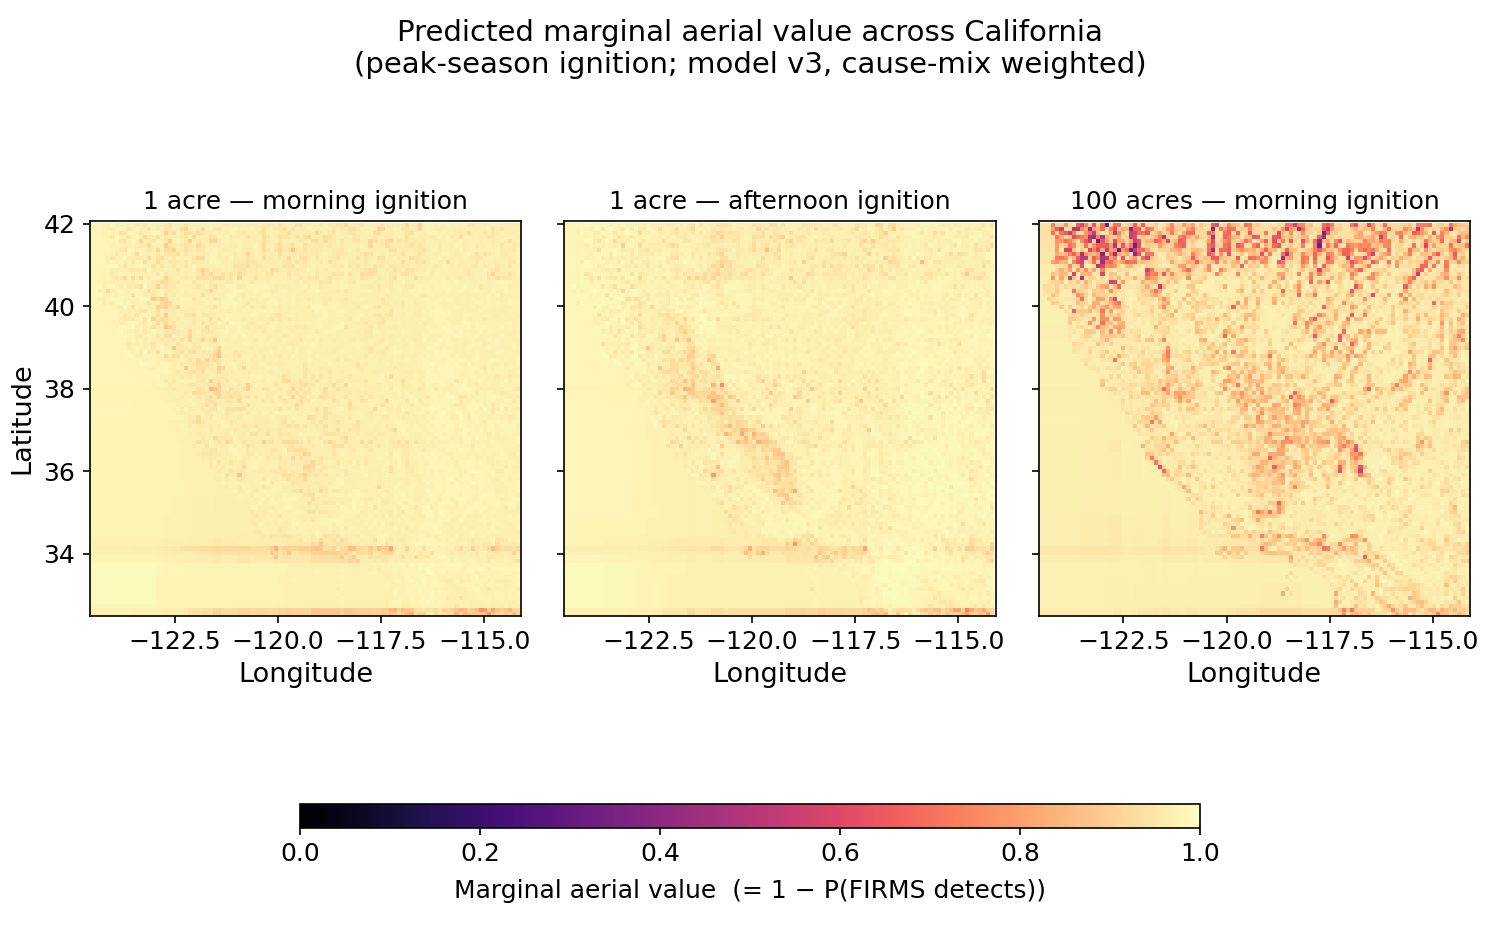
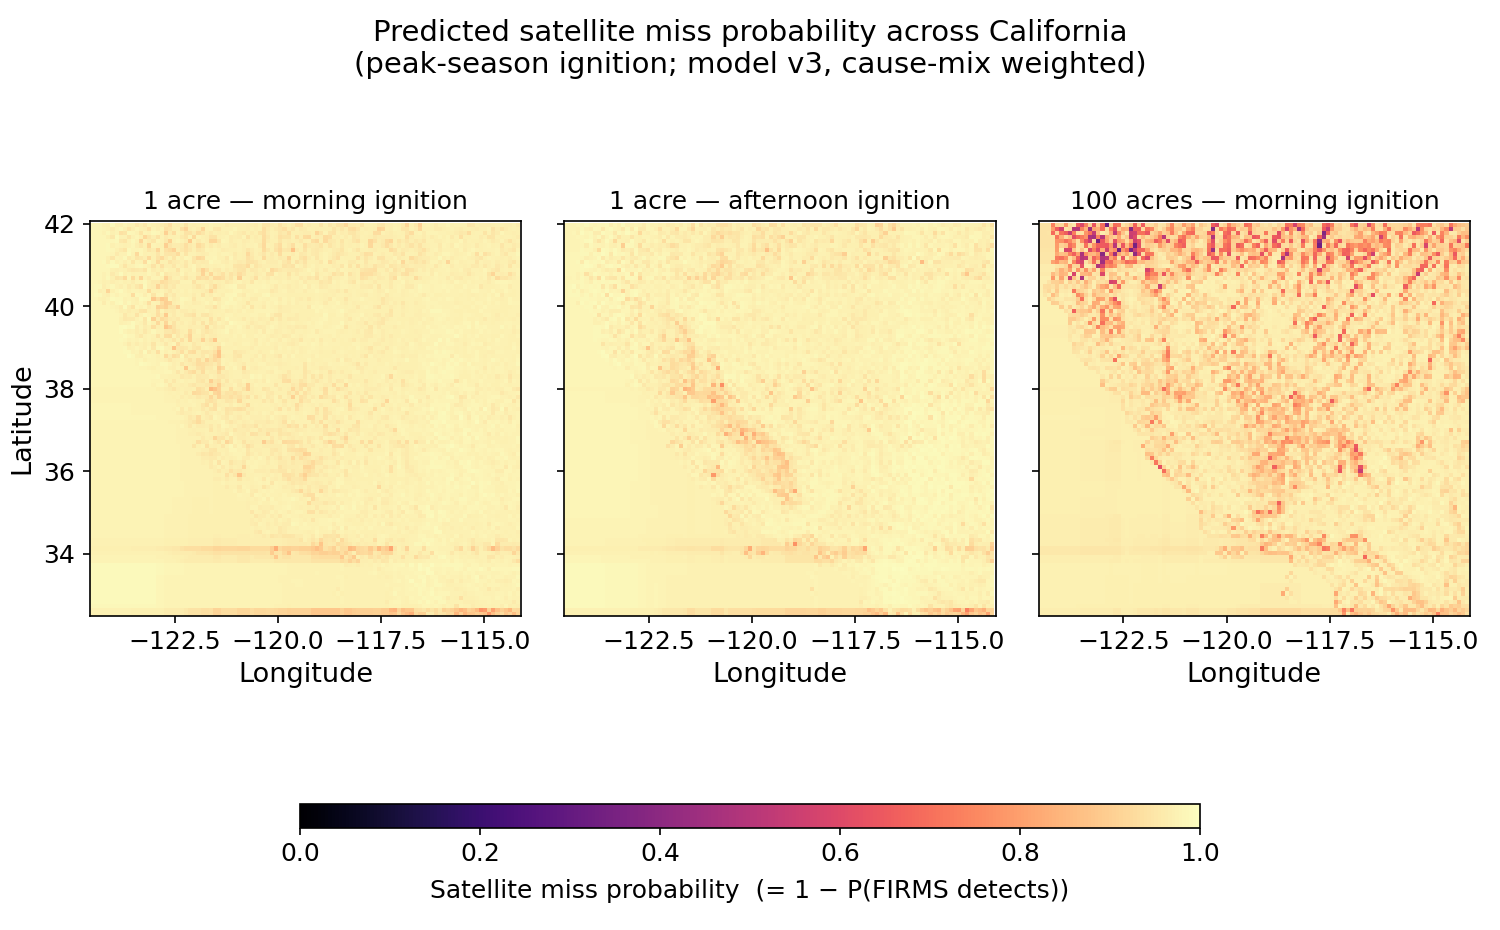
Strip drone/aerial framing throughout — measure the gap, don't pick the fill
Reviewer caught that the memo, README, repo description, and gap-
surface labels were all implicitly arguing FOR drones as the
solution to the satellite detection gap, when the actual analysis
only measures that the gap exists. We never compared drones to
ALERTCalifornia cameras, mountaintop lookouts, manned patrol
aircraft, or faster public-reporting routing — all of which fill
the same gap. Asserting "drones close the gap" without that
comparison was over-claiming.

Changes:

- memo title dropped "where drones add the most marginal value"
- "Decision impact — loiter vs. suppression" section replaced with
  "What the gap implies" — same evidence, no product framing
- "marginal aerial value" colorbar/caption renamed to "satellite
  miss probability" everywhere (memo, plots.py, figure label)
- new honest-limitations bullet: "the memo measures the gap; it
  does not pick the fill" with the explicit list of alternatives
- "loiter-aircraft pitch" / "founder reading Figure 8 to position
  aircraft" / "aerial product" phrasings replaced with neutral
  detection-infrastructure language
- README headline question reframed; new caveat bullet about not
  comparing fill options
- whats_next.txt: NOAA-20 question now frames whether satellite-
  alone can be made adequate, not "does it erode the aerial case"
- GitHub repo description updated via gh CLI

Drone framing was hand-waving. The data supports "the gap is real
and large"; the data does not support "drones are the answer." Now
[…]

Changed region(s): [[0.2453, 0.0, 0.7667, 0.0624], [0.276, 0.9355, 0.7053, 0.9667]]

diff --git a/src/plots.py b/src/plots.py
@@ -172,8 +172,8 @@ def fig_gap_surface():
             ax.set_ylabel("Latitude")
 
     cbar = fig.colorbar(im, ax=axes.ravel().tolist(), shrink=0.85,
-                        label="Marginal aerial value  (= 1 - P(FIRMS detects))")
-    fig.suptitle("Where do drones add the most marginal detection value?  (California)")
+                        label="Satellite miss probability  (= 1 - P(FIRMS detects))")
+    fig.suptitle("Where is the satellite detection layer least informative?  (California)")
     out = FIG_DIR / "gap_surface.png"
     fig.savefig(out, dpi=150, bbox_inches="tight")
     plt.close(fig)
@@ -357,7 +357,7 @@ def fig_gap_surface_v2():
         if ax is axes[0]:
             ax.set_ylabel("Latitude")
 
-    fig.suptitle("Predicted marginal aerial value across California\n"
+    fig.suptitle("Predicted satellite miss probability across California\n"
                  f"(peak-season ignition; {title_suffix})", fontsize=14)
 
     # Reserve a horizontal strip at the bottom for the colorbar; leave enough
@@ -366,7 +366,7 @@ def fig_gap_surface_v2():
     fig.subplots_adjust(left=0.06, right=0.98, top=0.88, bottom=0.22, wspace=0.10)
     cbar_ax = fig.add_axes([0.20, 0.11, 0.60, 0.025])  # [left, bottom, width, height]
     cbar = fig.colorbar(im, cax=cbar_ax, orientation="horizontal")
-    cbar.set_label("Marginal aerial value  (= 1 − P(FIRMS detects))", fontsize=12, labelpad=6)
+    cbar.set_label("Satellite miss probability  (= 1 − P(FIRMS detects))", fontsize=12, labelpad=6)
 
     out = FIG_DIR / "gap_surface.png"
     fig.savefig(out, dpi=150)

diff --git a/memo/firms_findings.md b/memo/firms_findings.md
@@ -1,5 +1,5 @@
 ---
-title: "Where satellite wildfire detection fails, and where drones add the most marginal value"
+title: "Where satellite wildfire detection fails: a gap analysis"
 subtitle: "FIRMS / VIIRS detection-gap analysis, California, Jun--Nov 2020"
 author: ""
 date: ""
@@ -7,7 +7,7 @@ date: ""
 
 # Headline finding
 
-A California wildfire that gets contained under 10 acres has a **\~97% probability of never producing a coincident FIRMS detection**. For a drone product that closes the resulting gap, the conflation below is fine; for a "satellite detection fails" narrative, it is over-claiming and needs unpacking.
+A California wildfire that gets contained under 10 acres has a **\~97% probability of never producing a coincident FIRMS detection**. That number is the union of two distinct failure modes — see the unpacking below — both of which a reader needs to keep separate before drawing any operational inference.
 
 | Fire size at containment | n | FIRMS detection rate |
 |---|---:|---:|
@@ -22,27 +22,25 @@ Ground truth: FPA-FOD v6 (Short 2022, RDS-2013-0009.6) restricted to California,
 1. *Sensor miss.* VIIRS overpassed the fire while it was burning and the thermal signal was too weak or too brief to fire a pixel.
 2. *Temporal sampling miss.* VIIRS did not overpass the fire while it was burning. Suomi-NPP is a single sun-synchronous satellite (one day + one night equator crossing); at California latitudes a given point gets typically 1--2 distinct overpasses per 24 h. A 90-minute grass fire between overpasses produces no detection regardless of sensor sensitivity.
 
-Both fail the same way from a "did the satellite alert us?" standpoint, and a loitering drone closes both. But the framing matters: the headline is *not* "VIIRS sensors are bad at small fires" — it is "satellites do not alert on small CA fires, for some combination of sensor sensitivity and overpass timing." Separating those would require joining per-fire ignition--containment windows to VIIRS overpass timetables, which is in the next-steps queue.
+Both fail the same way from a "did the satellite alert us?" standpoint. The framing matters: the headline is *not* "VIIRS sensors are bad at small fires" — it is "satellites do not alert on small CA fires, for some combination of sensor sensitivity and overpass timing." Separating those would require joining per-fire ignition--containment windows to VIIRS overpass timetables, which is in the next-steps queue. **What closes the gap — ground-based camera networks, lookouts, faster public reporting, aerial patrol, or some combination — is an open question this analysis does not try to answer.** It quantifies the gap; it does not pick the fill.
 
 **A second caveat that compounds the first.** Fire size at containment is an *outcome*, and detection is a predictor of that outcome — fires that get detected get suppressed faster and stay smaller. So "small fires get missed" and "missed fires stay small" are partly the same arrow, viewed from two sides. The 97% measurement is still correct; the causal phrasing "FIRMS misses *because* fires are small" is not fully defensible from this data alone.
 
 ![Hit rate by NWCG fire-size class. Bars are the share of FPA-FOD records in each bucket for which any FIRMS pixel fell within 3 km / +1 day of the discovery point. Note the buckets here are the standard 9-class NWCG schema, not the 3-bucket schema in the headline table above; the headline's "<10 acres" pools the leftmost three bars (3% / 3% / 6%, weighted) to recover its 3.2% figure.](../figures/hit_rate_by_size.png){ width=100% }
 
-# Decision impact
+# What the gap implies
 
-The question has the same answer for both plausible product directions:
+Two operational implications worth stating plainly, neither of which requires a specific product framing:
 
-- **Loiter / early detection.** Marginal value of a drone over a square kilometer is approximately the satellite-miss probability at that location:
+- **The small-fire detection layer cannot be satellite-only.** FIRMS silence cannot be interpreted as "no fire here" — it is just silence — and given the 97% non-detection rate for small fires, treating it as a real all-clear signal has an unacceptable miss rate at the size of fire that's still small enough to stop.
 
-    $$\text{marginal aerial value}(x) \;=\; 1 - P\!\left(\text{FIRMS detects} \mid x\right).$$
+- **The spatial structure of where the gap is largest is a planning input, not a decision input.** The same per-cell miss probability that drives the model's prediction gives, in aggregate, a map of where the satellite layer is least informative. Useful as a priority signal for any kind of ground- or air-based detection layer; not useful as a basis for any specific basing or coverage decision (see the spatial-replication caveats below).
 
-    The gap surface (Figure 8) is a first-pass priority map for where to base or patrol assets.
+Both rest on a calibrated estimate of the satellite miss probability,
 
-- **Active suppression.** Suppression needs a *trustworthy* ignition trigger. FIRMS does not emit an all-clear signal — it emits silence. But silence is exactly what a triggering pipeline would have to interpret as "no fire here." Given that 97% of CA small fires produce no FIRMS pixel, treating FIRMS silence as evidence of no fire has a ~97% miss rate at the small-fire end. The same gap surface is the surface over which a confirmatory aerial layer must operate.
+$$P_{\text{miss}}(x) \;=\; 1 - P\!\left(\text{FIRMS detects fire} \,\big|\, \text{size, location, season, time-of-day}\right),$$
 
-In both cases the foundation is identical: a calibrated estimate of the satellite miss probability,
-
-$$P_{\text{miss}}(x) \;=\; 1 - P\!\left(\text{FIRMS detects fire} \,\big|\, \text{size, location, season, time-of-day}\right).$$
+which the modeling section quantifies. This memo does not compare the actual options for closing the gap (ground-based camera networks like ALERTCalifornia, mountaintop lookouts, manned patrol aircraft, autonomous loitering platforms, faster public-reporting routing). All of those are filling a gap that this analysis only *measures*.
 
 # Methodology robustness
 
@@ -99,7 +97,7 @@ Of the 110 measurable perimeters, **68 anchor to CAL FIRE's `Started` timestamp*
 
 For the size/latency relationship *inside the catchable subset*, latency increases slightly with perimeter size (median 9 h for 10--100 ac → 21 h for 10k+ ac, pooled). The expected dynamic: a fire that ends at 10k acres started as a sub-VIIRS-detection-threshold ignition and only crossed the detection threshold after substantial growth.
 
-**Implication for a loiter-aircraft pitch:** lean on the 97% non-detection figure, not the 7 h figure. 7 h sounds almost tolerable on a quick read and undersells the case; the 97% is the actual operational gap a drone closes.
+**Which number to quote.** The honest number for "how big is the small-fire detection gap" is the 97% non-detection figure, not the 7 h figure. 7 h sounds almost tolerable on a quick read and dramatically undersells the size of the gap, because it conditions on the easiest sub-population. The 97% is the gap any non-satellite detection layer would actually be addressing.
 
 # Swath-edge geometry --- pixel size matters
 
@@ -114,7 +112,7 @@ We split FIRMS into nadir / mid / edge thirds by pixel area (33rd and 66th perce
 - **Big fires (≥ 1k ac):** edge pixels have a *higher* hit rate (1k--10k: 47% nadir vs **61% edge**; 10k+: 76% vs **81%**). A larger pixel covers more area, so any given fire is more likely to fall under one.
 - **Small fires ($<$ 10 ac):** edge pixels have a *lower* hit rate (1% vs 2%). The same physics that helps for big fires hurts here: larger pixels have a higher per-pixel detection threshold.
 
-This is the textbook detection-vs-resolution trade-off, visible in the data without any model. For an aerial product, it implies that nadir-only filtering *tightens* the FIRMS "no" signal but throws away ~70% of detections; for small-fire alerting, ignoring edge pixels is the right call because they contribute almost nothing.
+This is the textbook detection-vs-resolution trade-off, visible in the data without any model. For any downstream system that treats FIRMS as input, nadir-only filtering *tightens* the FIRMS "no" signal but throws away ~70% of detections; for small-fire alerting, ignoring edge pixels is the right call because they contribute almost nothing.
 
 # Modeling the gap
 
@@ -170,13 +168,13 @@ on a 0.1° latitude/longitude grid covering California, where $x$ is the cell's 
 
 A note on $\hat{P}$: the predicted-probability function plotted here is v3 (the most feature-complete model — terrain + fuel + everything v1 has), not v1. This is intentional and is *not* a contradiction of the v1-for-deployment recommendation in the modeling section. The map is a *visualization* of where the model expects the gap to be largest under a hypothetical 1-acre fire; visualizing requires the richest set of spatial inputs available, even if those inputs don't move the held-out metric. For an actual deployed *alerting threshold* the calibration in the 10–20% probability band matters more than gap-surface texture, and v1 is the right choice there. The two recommendations are about two different operational uses.
 
-![Predicted marginal aerial value (1 -- P(FIRMS detects)) across CA on a 0.1$^\circ$ grid, three scenarios. Predictions are mixed over the 2020 CA cause distribution (rather than conditioned on a single cause). Light = high gap (drones add value); dark = low gap (FIRMS likely catches it).](../figures/gap_surface.png){ width=100% }
+![Predicted satellite miss probability (1 -- P(FIRMS detects)) across CA on a 0.1$^\circ$ grid, three scenarios. Predictions are mixed over the 2020 CA cause distribution (rather than conditioned on a single cause). Light = high miss probability (satellite layer least informative); dark = low miss probability (FIRMS likely catches it).](../figures/gap_surface.png){ width=100% }
 
 The 1-acre map is uniformly high (median 0.98) --- VIIRS rarely catches small fires anywhere. **The lever is detecting fires that haven't grown yet.** The morning vs.\ afternoon 1-acre panels are nearly identical (median gaps 0.97 vs.\ 0.98); the model finds no operationally meaningful time-of-day effect at this size, so both panels are kept here only to show that the headline is not a single-scenario artifact.
 
-For 100-acre fires the surface separates by terrain: the Klamath / Trinity Alps and the northern Sierra--Cascades show high gap (FIRMS will probably miss), while the Central Valley and southern basins show low gap (FIRMS catches them). Detection failures concentrate in the heavily forested, high-elevation interior --- exactly where ground-based detection is also hardest.
+For 100-acre fires the surface separates by terrain: the Klamath / Trinity Alps and the northern Sierra--Cascades show high miss probability (FIRMS will probably miss), while the Central Valley and southern basins show low miss probability (FIRMS catches them). Detection failures concentrate in the heavily forested, high-elevation interior --- exactly where ground-based detection is also hardest.
 
-**Trust the size finding; do not yet trust the spatial specifics.** 2020 was an outlier lightning-siege year for California — most of the season's big fires concentrated in the northern interior. The "FIRMS misses small fires" headline is a sensor-physics result and is almost certainly universal. The shape of the 100-acre gap surface, in contrast, partly reflects *where 2020 happened to burn*, and the Klamath / Sierra story should not be used as a basing decision until the same pipeline is run on Oregon and Idaho, or on a 5+ year CA window, and the spatial structure replicates. A founder reading Figure 8 to choose where to position aircraft is reading exactly the layer this dataset cannot defend yet.
+**Trust the size finding; do not yet trust the spatial specifics.** 2020 was an outlier lightning-siege year for California — most of the season's big fires concentrated in the northern interior. The "FIRMS misses small fires" headline is a sensor-physics result and is almost certainly universal. The shape of the 100-acre miss-probability surface, in contrast, partly reflects *where 2020 happened to burn*, and the Klamath / Sierra story should not be used as a basis for any specific detection-infrastructure decision until the pipeline is run on Oregon and Idaho, or on a 5+ year CA window, and the spatial structure replicates. Anyone reading Figure 8 to inform a specific coverage or basing decision is reading exactly the layer this dataset cannot defend yet.
 
 ![Spatial distribution of FIRMS hits vs.\ misses across California, split by fire size. Small-fire misses cover the state; the small-fire *hits* (left panel, blue) cluster visibly, and that clustering is the same mega-fire-polygon co-location effect diagnosed in the polygon-vs-centroid section above — a small ignition inside a mega-fire's burn polygon picks up the mega-fire's pixels and gets credited as a hit. Medium/large-fire misses (right panel) concentrate along the Coast Range and Sierra--Cascade interior.](../figures/miss_map.png){ width=100% }
 
@@ -186,5 +184,6 @@ For 100-acre fires the surface separates by terrain: the Klamath / Trinity Alps 
 - **FPA-FOD coordinates are noisy.** The 174k-acre Castle Fire (2020) shows up at 34.95$^\circ$N / -118.93$^\circ$W, ~130 km from the actual burn perimeter in Sequoia NF. The polygon-match approach above resolves this case; centroid-radius cannot.
 - **FPA-FOD covers 1992--2020 only.** Extending past 2020 requires a different ground-truth source (MTBS, ICS-209, or CAL FIRE perimeters).
 - **Elevation feature is from a ~500 m neighbor offset on SRTM via Open-Elevation**, not a proper 30 m USGS 3DEP raster. The slope estimates are fine for "is it mountainous"; coarse for "is this a steep canyon."
-- **Single-year, single-region — the load-bearing caveat.** 2020 was an outlier lightning-siege year for California; most of the season's burned acreage concentrated in the northern interior. The size-by-detection-rate finding (3.2% / 25% / 80%) is a sensor-physics result and is robust. The *spatial* gap-surface specifics — the Klamath / Sierra / Trinity hot-zones in Figure 8 — partly reflect where 2020 happened to burn and should not be acted on (e.g.\ for aircraft basing) until the pipeline replicates on Oregon and Idaho or on a 5+ year CA window.
+- **Single-year, single-region — the load-bearing caveat.** 2020 was an outlier lightning-siege year for California; most of the season's burned acreage concentrated in the northern interior. The size-by-detection-rate finding (3.2% / 25% / 80%) is a sensor-physics result and is robust. The *spatial* miss-probability specifics — the Klamath / Sierra / Trinity hot-zones in Figure 8 — partly reflect where 2020 happened to burn and should not be acted on for any specific basing or coverage decision until the pipeline replicates on Oregon and Idaho or on a 5+ year CA window.
+- **The memo measures the gap; it does not pick the fill.** A complete operational read would compare the satellite-only baseline against ALERTCalifornia mountaintop camera coverage, lookout-tower viewsheds, manned CAL FIRE patrol aircraft, public-reporting routing, and aerial loiter platforms — and would quote unit economics, not just detection rates. None of that work is in this analysis. The numbers here describe a real and measurable hole in satellite-only detection; the choice of what fills the hole is downstream.
 

diff --git a/README.md b/README.md
@@ -1,6 +1,6 @@
 # California wildfire detection gap
 
-Where NASA FIRMS / VIIRS satellite wildfire detection fails for California, and therefore where aerial detection (drones, persistent loiter) adds the most marginal value.
+How often satellite-based wildfire detection (NASA FIRMS / VIIRS VNP14) fails in California, by fire size and location. The repo measures the gap; it does not pick what fills it.
 
 ## Headline
 
@@ -73,7 +73,8 @@ whats_next.txt        v2 punch list (pulled from the memo before publication)
 
 - **Single year, single region.** 2020 was an outlier lightning-siege year for CA. The size-by-detection finding is sensor physics and is robust; the *spatial* gap-surface specifics (Klamath / Sierra hot-zones) partly reflect where 2020 happened to burn and should not drive any operational decision until the pipeline replicates on Oregon and Idaho.
 - **"Hit" means "any FIRMS pixel within 3 km / +1 day," not "FIRMS correctly identified this fire."** Two fires within a few km can both be credited as hits in the centroid-radius envelope; the polygon-matched subset is the stricter measurement and is reported separately.
-- **The 97% combines sensor miss with overpass-sampling miss.** Suomi-NPP gives a given CA point 1–2 distinct overpasses per day; a 90-minute grass fire between overpasses produces no detection regardless of sensor sensitivity. Operationally these collapse into the same gap (a loitering drone closes both); the framing matters for any "the sensor is bad" narrative.
+- **The 97% combines sensor miss with overpass-sampling miss.** Suomi-NPP gives a given CA point 1–2 distinct overpasses per day; a 90-minute grass fire between overpasses produces no detection regardless of sensor sensitivity. Operationally these collapse into the same gap; the framing matters for any "the sensor is bad" narrative.
+- **This memo does not compare the options for closing the gap.** Ground-based camera networks (ALERTCalifornia), lookout towers, manned patrol aircraft, public-reporting routing, and autonomous loiter platforms are all candidates and none is evaluated against the others here. The work measures the hole; choosing the fill is downstream.
 - **The LANDFIRE fuel feature is suspect on inspection.** 61% of FPA-FOD ignitions snap to non-burnable LANDFIRE cells because human-caused fires cluster in the urban-wildland interface. The v3 (terrain+fuel) null result may be a bad-feature null rather than a no-signal null.
 - **All other caveats are in the memo's "Honest limitations" section.**
 